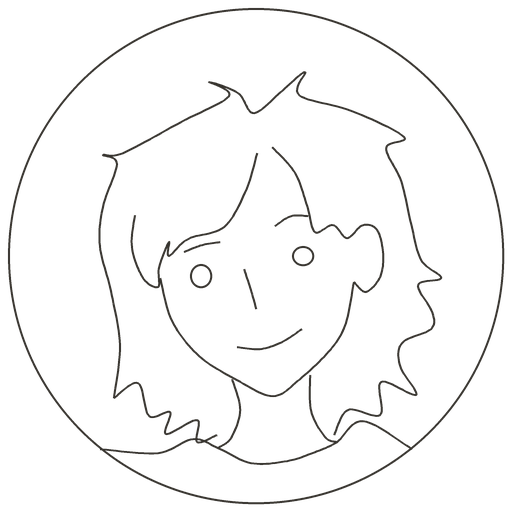
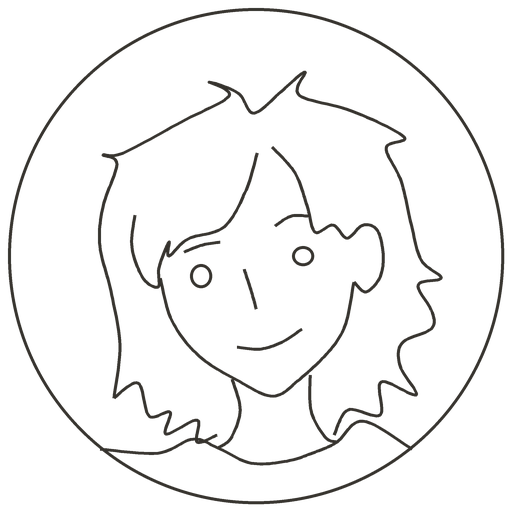
style: thicken profile portrait outlines

diff --git a/scripts/prepare_avatars.py b/scripts/prepare_avatars.py
@@ -16,6 +16,7 @@ from PIL import Image, ImageDraw
 SIZE = 512
 SCALE = 4
 INK = '#34312c'
+STROKE_WIDTH = 3 * SCALE
 RADIUS = 248
 
 # Each path is one continuous ink contour in a 512 × 512 drawing space.
@@ -100,10 +101,10 @@ def prepare(destination: Path) -> None:
             # Shoulder endpoints meet the circle precisely, without a floating bust.
             points = [(x, round(256 + sqrt(RADIUS**2 - (x-256)**2)))
                       if (x, y) in ((100,449), (412,449)) else (x,y) for x,y in points]
-            draw.line(curve(points), fill=INK, width=2*SCALE, joint='curve')
+            draw.line(curve(points), fill=INK, width=STROKE_WIDTH, joint='curve')
         for x, y, rx, ry in EYES[index-1]:
-            draw.ellipse(tuple(v*SCALE for v in (x-rx,y-ry,x+rx,y+ry)), outline=INK, width=2*SCALE)
-        draw.ellipse((8*SCALE,8*SCALE,504*SCALE,504*SCALE), outline=INK, width=2*SCALE)
+            draw.ellipse(tuple(v*SCALE for v in (x-rx,y-ry,x+rx,y+ry)), outline=INK, width=STROKE_WIDTH)
+        draw.ellipse((8*SCALE,8*SCALE,504*SCALE,504*SCALE), outline=INK, width=STROKE_WIDTH)
         art = art.resize((SIZE,SIZE), Image.Resampling.LANCZOS)
         if index == 2:
             art = art.transpose(Image.Transpose.FLIP_LEFT_RIGHT)
